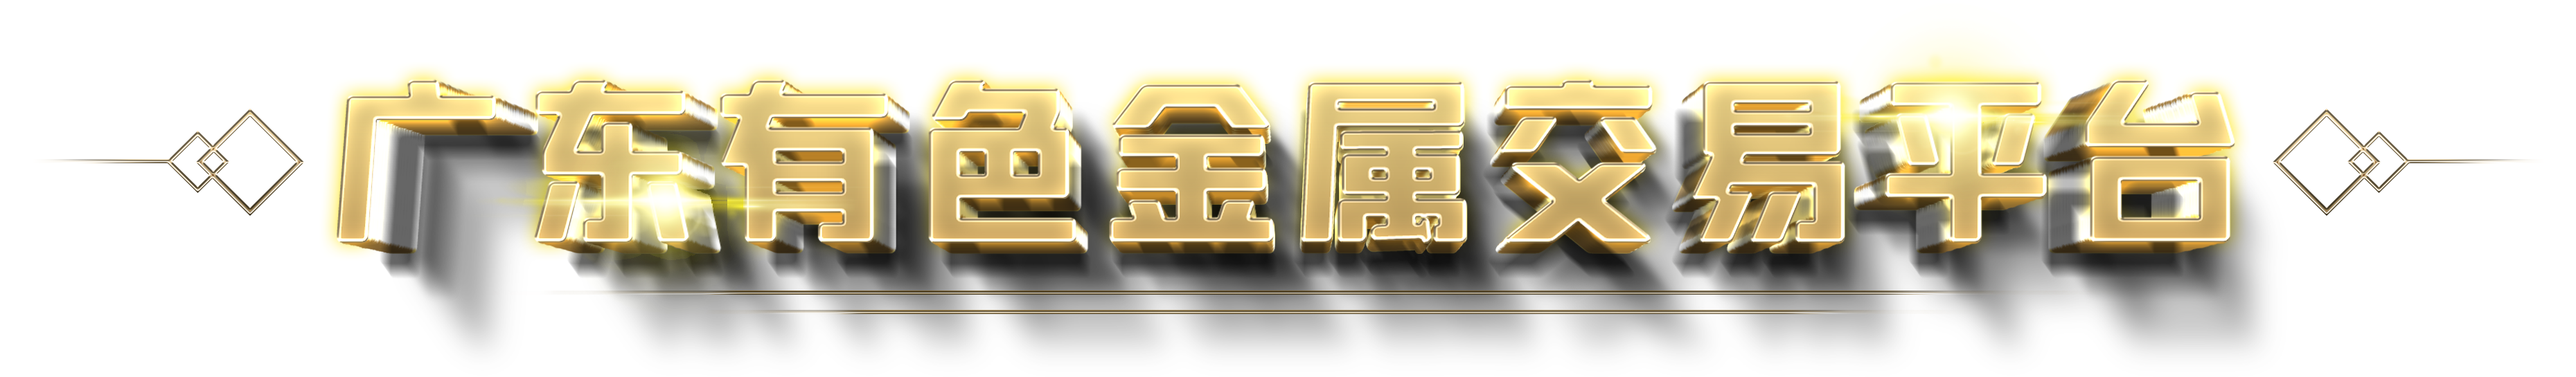
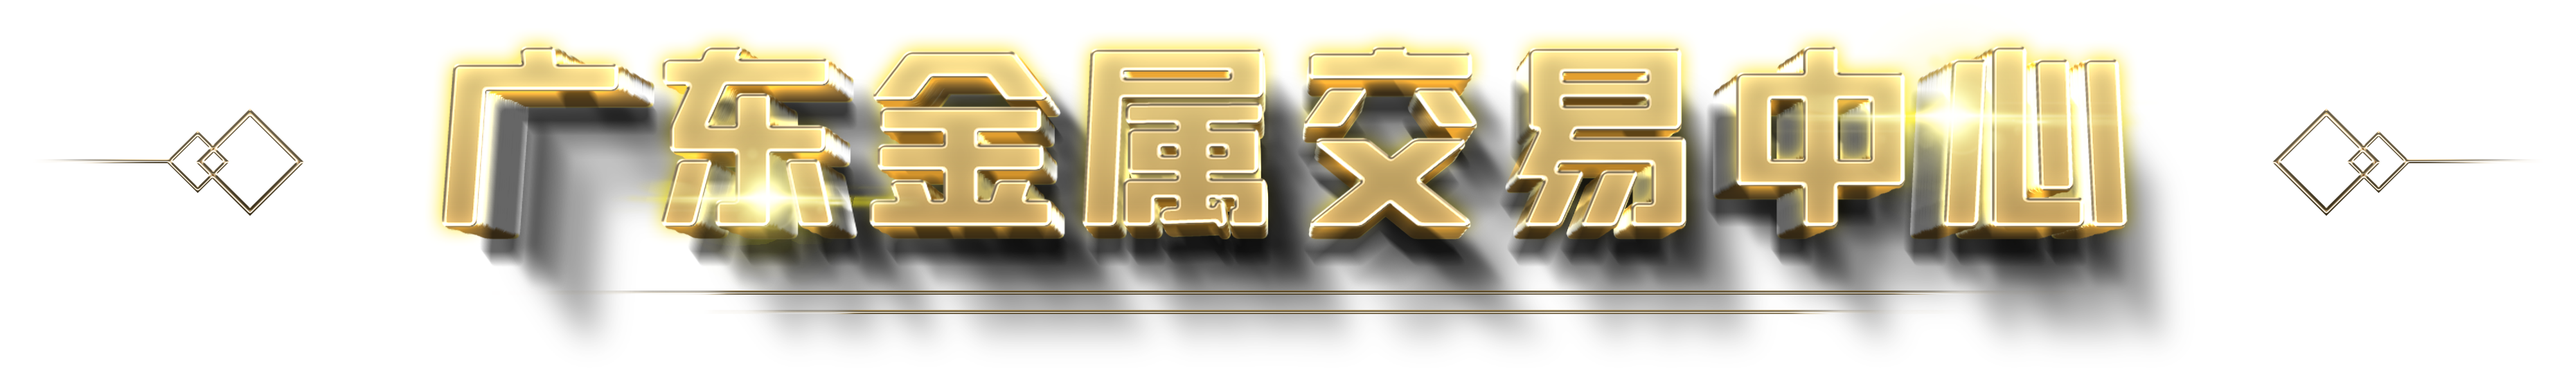
改名交易中心

diff --git a/src/views/corporatestyle/index.vue b/src/views/corporatestyle/index.vue
@@ -66,6 +66,7 @@
           :class="'pic' + i"
           v-for="(pic, i) in picList"
           :key="i"
+          @click="preview(i)"
         >
           <img class="pic-img" :src="pic.url" />
         </div>
@@ -88,6 +89,15 @@
           src="/static/images/corporatestyle/intro-border.png"
         />
       </div>
+      <!-- 预览图片 -->
+      <div class="preview-box" @click="closePreview" v-if="prevFlag">
+        <div class="preview-pic">
+          <img class="preview-img" :src="previewUrl" alt="">
+        </div>
+        <!-- <div class="close">X</div> -->
+        <!-- <div class="prev"></div> -->
+        <!-- <div class="next"></div> -->
+      </div>
     </div>
   </div>
 </template>
@@ -109,6 +119,8 @@ export default {
 
   data() {
     return {
+      prevFlag: false,
+      previewUrl: '',
       playerOptions: {
         fluid: true,
         sources: [
@@ -140,30 +152,37 @@ export default {
         {
           title: "产业创新",
           desc:
-            "2014年，在区、镇两级政府的大力支持下，龙汇供应链公司与广州商品交易所共同打造的广东有色金属交易平台正式投入使用，旨在重塑大沥产业结构，助力产业升级。交易平台为会员提供交易服务、结算服务、交收服务、信息服务及其他创新服务。"
+            "2014年，在区、镇两级政府的大力支持下，广东有色金属交易平台（后更名为“广东金属交易中心”）正式成立，旨在重塑大沥产业结构，助力产业升级。交易中心为会员提供交易服务、结算服务、交收服务、信息服务及其他创新服务。"
         },
         {
           title: "产业集聚",
           desc:
-            "交易平台在广佛国际商贸中心区的龙汇大厦落实，吸引越来越多有色金属上下游企业汇聚于此，助力有色金属产业经济迈上新征程。广东有色金属交易平台会员数量从2014年160家增加到2020年超4000家，会员遍布全国各地。"
+            "交易中心在广佛国际商贸中心区的龙汇大厦落实，吸引越来越多有色金属上下游企业汇聚于此，助力有色金属产业经济迈上新征程。广东金属交易中心会员数量从2014年160家增加到2020年超4000家，会员遍布全国各地。"
         },
         {
           title: "持续发展",
           desc:
-            "交易平台实现了有色金属现货产品高效流转。交易额从2014年421.89亿元增长到2020年3382.81亿元。交易平台发布“华南铝价”、成立广东南海有色金属产业联盟,推动产业链不断延伸，争夺行业话语权，成为华南地区有色金属企业总部的汇聚点。"
+            "交易中心实现了有色金属现货产品高效流转。交易额从2014年421.89亿元增长到2020年3382.81亿元。交易中心发布“华南铝价”、成立广东南海有色金属产业联盟,推动产业链不断延伸，争夺行业话语权，成为华南地区有色金属企业总部的汇聚点。"
         }
       ],
       picList: [
-        { url: "/static/images/corporatestyle/pic-1.png" },
-        { url: "/static/images/corporatestyle/co-3.jpg" },
-        { url: "/static/images/corporatestyle/co-2.png" },
-        { url: "/static/images/corporatestyle/co-1.jpg" },
-        { url: "/static/images/corporatestyle/pic-5.png" }
+        { url: "/static/images/corporatestyle/pic-1.png", hdurl: '/static/images/corporatestyle/pic-1-hd.jpg'},
+        { url: "/static/images/corporatestyle/co-3.jpg", hdurl: '/static/images/corporatestyle/co-3-hd.jpg'},
+        { url: "/static/images/corporatestyle/co-2.png", hdurl: '/static/images/corporatestyle/co-2-hd.jpg'},
+        { url: "/static/images/corporatestyle/co-1.jpg", hdurl: '/static/images/corporatestyle/co-1-hd.png'},
+        { url: "/static/images/corporatestyle/pic-5.png", hdurl: '/static/images/corporatestyle/pic-5-hd.jpg'}
       ]
     };
   },
 
   methods: {
+    preview(i) {
+      this.previewUrl = this.picList[i].hdurl
+      this.prevFlag = true
+    },
+    closePreview() {
+      this.prevFlag = false
+    },
     // 视频加载完成回调
     playerReadied(e) {
       this.myPlayer = e;
@@ -193,6 +212,32 @@ export default {
   padding: 49px 47px;
   background-image: url("/static/images/corporatestyle/bg.png");
   position: relative;
+}
+// 预览图片
+.preview-box {
+  position: fixed;
+  z-index: 999;
+  width: 100%;
+  height: 100%;
+  background-color: rgba(0,0,0,0.4);
+  top: 0;
+  left: 0;
+
+  .preview-pic {
+    position: absolute;
+    left: 50%;
+    top: 50%;
+    transform: translate(-50%, -50%);
+    width: 1044px;
+    height: 756px;
+    background-color: #fff;
+
+    .preview-img {
+      display: inline-block;
+      width: 100%;
+      height: 100%;
+    }
+  }
 }
 
 .logo-area {

diff --git a/src/views/exchange-data/index.vue b/src/views/exchange-data/index.vue
@@ -7,7 +7,7 @@
             <div class="aside left">
                 <div>
                     <div class="aside-title">
-                        <div class="text">平台月度交易数据</div>
+                        <div class="text">月度交易数据</div>
                     </div>
                     <div class="desc" style="height: 23.5vh">
                         <AreaBasic :year="tradeYear"/>
@@ -15,7 +15,7 @@
                 </div>
                 <div>
                     <div class="aside-title" style="margin-top: 20px;">
-                        <div class="text">平台历年交易数据</div>
+                        <div class="text">年度交易数据</div>
                     </div>
                     <div class="desc" style="height: 23.5vh">
                         <BarTick />
@@ -23,7 +23,7 @@
                 </div>
                 <div>
                     <div class="aside-title" style="margin-top: 20px;">
-                        <div class="text">平台客户量</div>
+                        <div class="text">客户数量</div>
                     </div>
                     <div class="desc" style="height: 23.5vh">
                         <BarTick2 />
@@ -73,7 +73,7 @@
                         <el-row >
                             <el-col :span="12">
                                 <Pie :year="tradeYear" :type="'platform'" :height="'23vh'"/>
-                                <div style="text-align:center;margin-top:0vh;">平台占国内交易量比重</div>
+                                <div style="text-align:center;margin-top:0vh;">占国内交易量比重</div>
                             </el-col>
                             <el-col :span="12">
                                 <Pie :year="tradeYear" :type="'country'" :height="'23vh'"/>

diff --git a/src/views/industry-position/index.vue b/src/views/industry-position/index.vue
@@ -21,7 +21,7 @@
                     <div class="title">政府的引导和扶持</div>
                     <div class="desc desc1">
                         <p>
-                            为推动有色金属交易平台在南海区发展壮大，充分发挥平台的集聚效应和骨干企业的龙头带动效应，促进金属加工批发行业健康发展，南海区、大沥镇两级政府通过政策扶持、鼓励创新、强化标准等，引导产业转型升级。
+                            为推动交易中心在南海区发展壮大，充分发挥交易中心的集聚效应和骨干企业的龙头带动效应，促进金属加工批发行业健康发展，南海区、大沥镇两级政府通过政策扶持、鼓励创新、强化标准等，引导产业转型升级。
                         </p>
                     </div>
                 </div>
@@ -29,7 +29,7 @@
             <div class="grid">
                 <div class="cover icon3"></div>
                 <div class="content">
-                    <div class="title">平台的价值和效益</div>
+                    <div class="title">价值和效益</div>
                     <div class="desc desc2">
                         <p>1.提升行业竞争力</p>
                         <p>2.掌握区域定价权</p>
@@ -41,7 +41,7 @@
             <div class="grid">
                 <div class="cover icon4"></div>
                 <div class="content">
-                    <div class="title">平台愿景</div>
+                    <div class="title">展望未来</div>
                     <ul class="desc desc4">
                         <li><p>推动华南有色金属向平台化、数字化、技术化发展。</p>
                         <li><p>推动有色金属行业供应链金融的发展。</p></li>

diff --git a/src/components/Header/index.vue b/src/components/Header/index.vue
@@ -1,7 +1,7 @@
 <template>
     <div class="header">
         <div class="title">
-            <div class="left">广东有色金属交易平台</div>
+            <div class="left">广东金属交易中心</div>
             <div class="middle">{{ title }}</div>
             <div class="right">{{ nowDate | parseTime('{y} 年 {m}月 {d}日 {h}:{i}') }}</div>
         </div>
